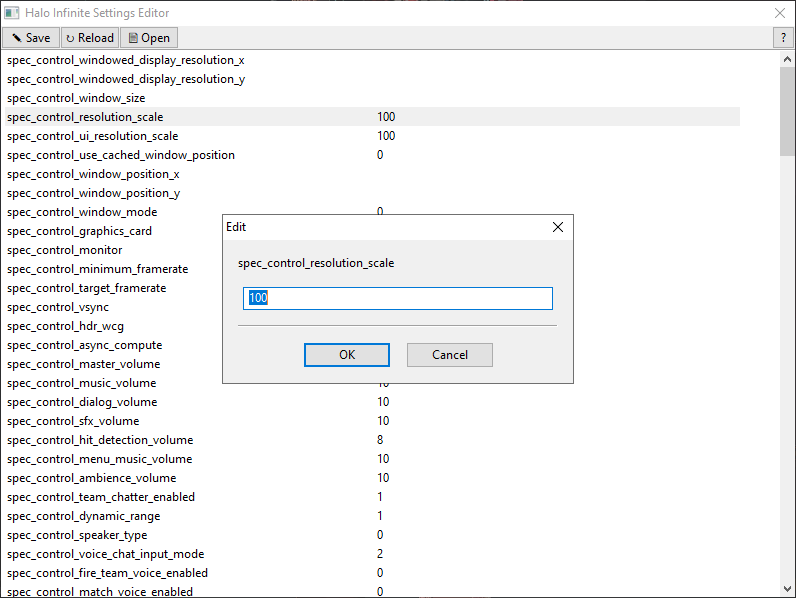
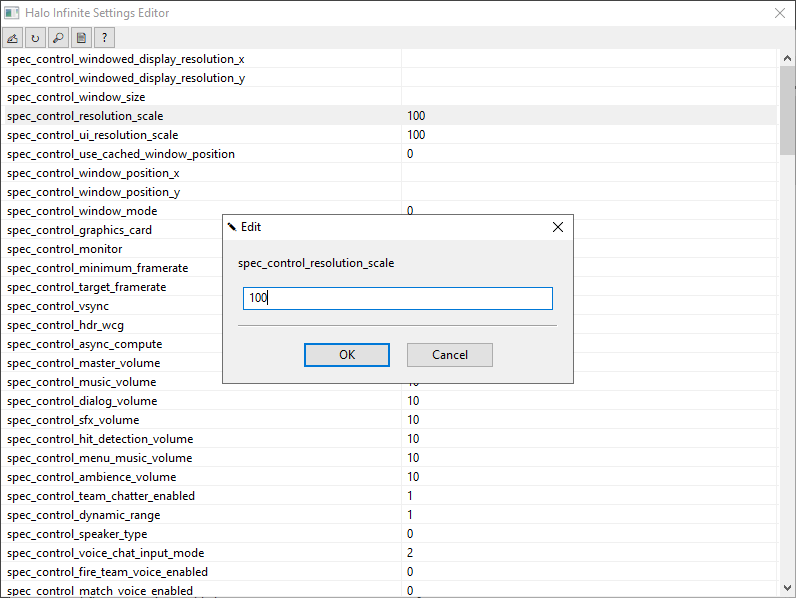
rework readme

diff --git a/README.md b/README.md
@@ -6,19 +6,28 @@
 2. Start `Halo Infinite Settings Editor.exe`.
 3. The program will automatically detect where the `SpecControlSettings.json` file is and then load its contents.
 4. Here is how the interface looks like:
+
     ![HaloInfSetEdit](images/HaloInfSetEdit.png)
 
 5. The toolbar has the following operations:
-    1. `[Save]`: Save the current settings.
-    2. `[Reload]`: Reload settings from `SpecControlSettings.json`.
-    3. `[Open]`: Open `SpecControlSettings.json` in a text editor.
+    1. `[✍]`: Save the current settings.
+    2. `[↻]`: Reload settings from `SpecControlSettings.json`
+    3. `[🔎]`: Search for a key.
+    4. `[📄]`: Open the `SpecControlSettings.json` file in a text editor.
+    5. `[?]`: Information on Halo Infinite Settings Editor.
 
-6. To edit a value, double click value you want to edit to open up the `Edit Dialog Box`.
-    ![HaloInfSetEdit](images/HaloInfSetEditDialog.png)
-    You can enter the following data types:
-    1. `String`
-    2. `Integer`
-    3. `Null`: To put in a `Null` value, simply leave the leave the textbox empty and hit `[Ok]`.
+6. Operations:
+    - To edit a value, double click value you want to edit to open up the `Edit Dialog Box`.
+
+        ![HaloInfSetEditDialog](images/HaloInfSetEditDialog.png)
+        You can enter the following data types:
+        1. `String`
+        2. `Integer`
+        3. `Null`: To put in a `Null` value, simply leave the leave the textbox empty and hit `[Ok]`.
+    
+    - To search for a key, click on `[🔎]` and enter your query.
+
+        ![HaloInfSetSearchDialog](images/HaloInfSetSearchDialog.png)
 
 # Build
 1. Install Nim. 
